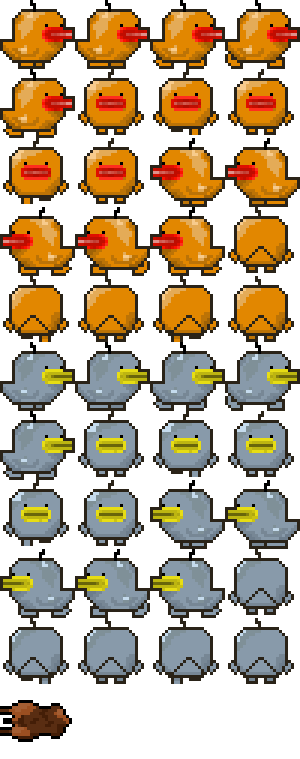
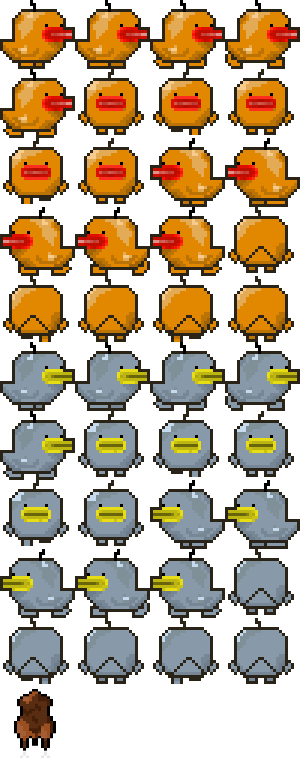
Changed duck death to correctly show sprite without hat

Changed region(s): [[0.0, 0.9091, 0.24, 1.0]]

diff --git a/src/main/java/com/anotherworld/view/data/PlayerDisplayObject.java b/src/main/java/com/anotherworld/view/data/PlayerDisplayObject.java
@@ -38,6 +38,11 @@ public class PlayerDisplayObject extends PlayerRectangleDisplayObject {
     }
     
     @Override
+    public boolean shouldDraw() {
+        return true;
+    }
+    
+    @Override
     public void destroy() {
         super.destroy();
         healthBar.destroy();

diff --git a/src/main/java/com/anotherworld/view/data/PlayerRectangleDisplayObject.java b/src/main/java/com/anotherworld/view/data/PlayerRectangleDisplayObject.java
@@ -63,7 +63,7 @@ public class PlayerRectangleDisplayObject extends DisplayObject {
     
     @Override
     public boolean shouldDraw() {
-        return true;
+        return displayData.getState() != ObjectState.DEAD || displayData.isDeadByFalling();
     }
     
     @Override
